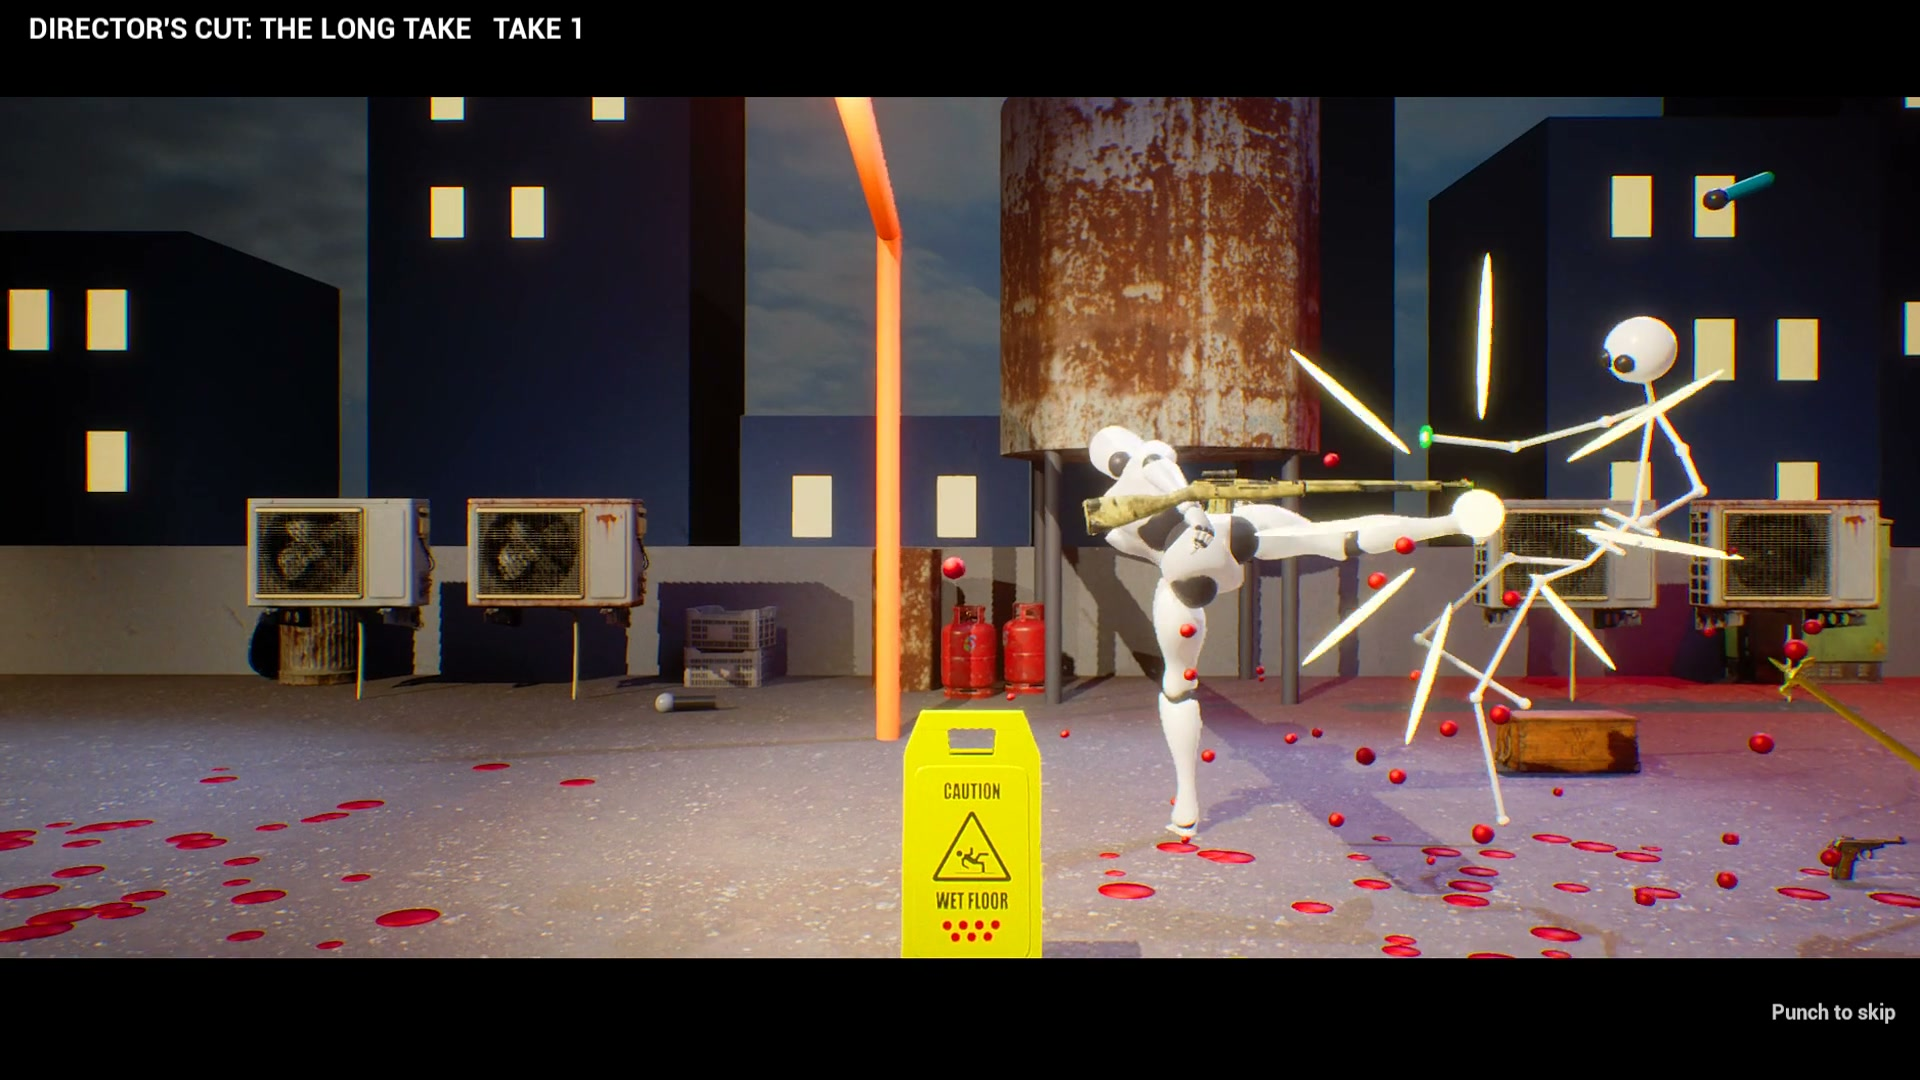
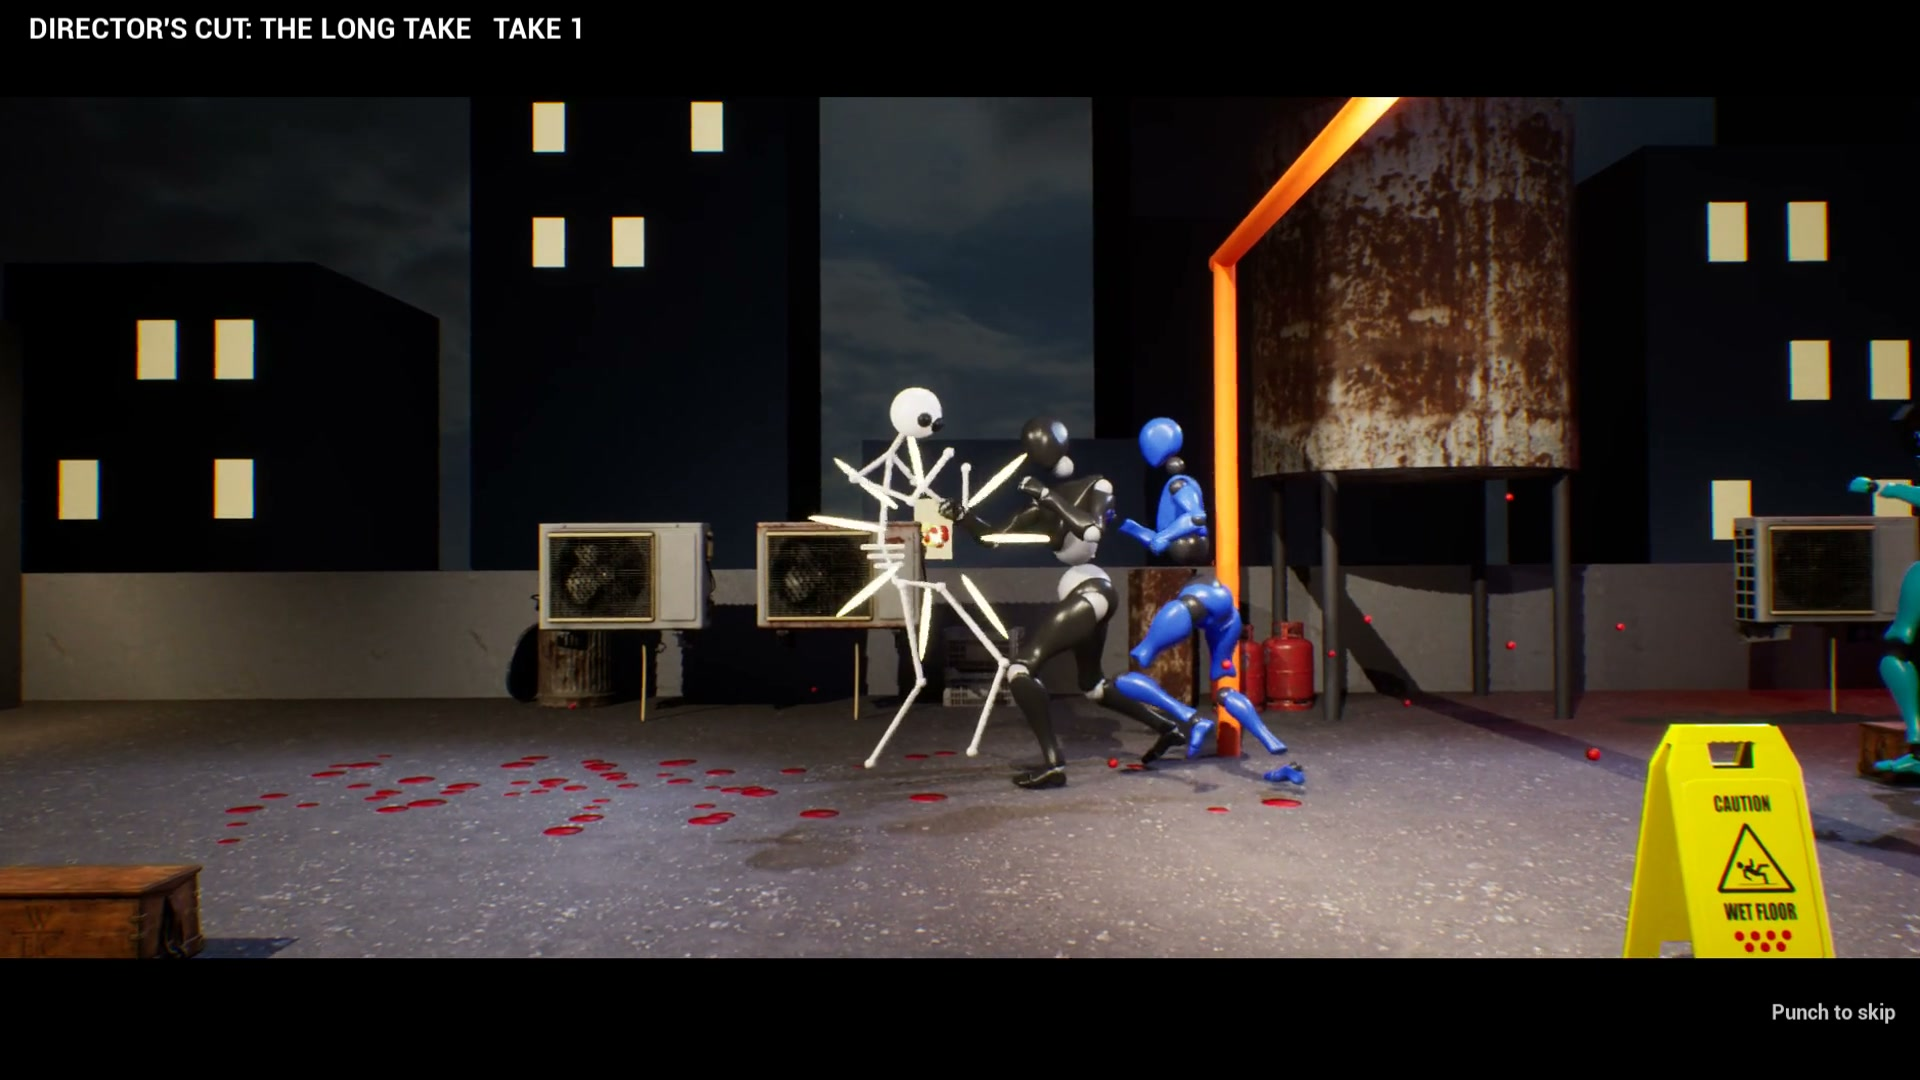
The project as it stood at 49e3301

diff --git a/DEVLOG.md b/DEVLOG.md
@@ -1250,6 +1250,21 @@ Entry for the 2026 Epic AI MegaJam (theme: Director's Cut). This log records, as
 
 ![The bar's film as the long take: one camera from the side, start to slate](Docs/devlog/81-the-long-take.jpg)
 
+### 18:30 · A new gameplay video from the evening's build, and the Start menu that got into it
+
+- **Developer said:** "Yes, PC is yours".
+- **Agent did:**
+  - `Tools/record_run.ps1 -Seconds 300` let the evening's packaged game play itself in a window and recorded its picture and its own sound. The run: all three scenes won in their first take, the films shown as the action cut, the slow-motion cut and the long take in turn, then the closing card. Over four takes 87 blows with hands and feet, 11 things thrown, 9 shots that hit, 26 blows taken.
+  - `node Tools/cut_video.mjs` then refused: "No film's black bars were found in the picture". It puts the picture in step with the log by measuring how long the top of the frame is black, and expected that to be as long as a film. Since the title card and the slate were added the bars go up with the card that offers the choice of cut and come down with a card after the film, so every stretch was ten to fourteen seconds too long. The script now looks for a stretch that starts at that card and ends on one of the cards after the film; it found film 3 to within 11 milliseconds.
+  - The first cut was looked at one frame every two seconds, and one frame was wrong: the Windows Start menu lay over the game, with the names of files on the developer's PC in it. In the recording it is up for about one second, as the first choice of cut appears; the other two choices are clean. Why it opened is not known. The piece that shows the choice now starts 1.3 seconds into the card instead of 0.5, which is past it in this run and as good in any other.
+  - Two more changes to the cut while it was open. The films of scenes 2 and 3 used to start with the last 0.7 seconds of their title card, a black flash too short to read; they now start after it. And the video now shows the slate of the last film, "CUT. PRINT IT.", before the closing card; it is left out when outtakes follow the slate.
+  - The second cut was looked at two frames a second, 116 frames: nothing lies over the picture. Eight pictures for the store page were taken from it into `Docs/store`, the eighth being the slate.
+- **Result:** `Saved/Release/StickToTheScript_gameplay.mp4`, 58 seconds, 1920 by 1080, with sound (mean -22 dB, peak -1.5 dB). The cut before it is kept beside it as `StickToTheScript_gameplay_before.mp4`.
+- **Went wrong:** the Start menu, told above; a frame every two seconds caught it, and only just, since it was up for one second. The raw recording still has it and stays on the developer's disk.
+- **Not verified:** nobody has listened to the video; its sound was measured, not heard. Nobody has watched it at speed. It is not uploaded: the link on the store page and for the jam's form is still the video of Nov 13, and the page still shows that day's pictures and the build of 13:31.
+
+![The new video, two frames a second: title, wardrobe, three fights, three films in three cuts, the slate](Docs/devlog/82-the-new-gameplay-video.jpg)
+
 ---
 
 ## Asset and tool register

diff --git a/Docs/StorePage.md b/Docs/StorePage.md
@@ -75,9 +75,9 @@ The page exists as a draft since Fri Nov 13: https://the-fighter-ps.itch.io/stic
 - [x] Cover, screenshots and the zip uploaded to the draft, on Fri Nov 13. The zip there is replaced whenever the game changes, last on Sat Nov 14 at 13:31. The page's upload buttons open a file chooser; `Toolschoose_file.ps1` fills it in
 
 - [x] Team name: Page Twelve. The zip is `PageTwelve_StickToTheScript.zip`, made by `Tools\release.ps1 -Team PageTwelve`
-- [ ] Screenshots taken from the packaged game. Seven are in `Docs/store`, captured from the game's own window at 1920 by 1080 during a self-played run on Fri Nov 13, after the sets got their surfaces. The strip along the top, where a tool on the developer's PC draws its frame counter, is cut off. The developer has not chosen among them
+- [ ] Screenshots taken from the packaged game. Eight are in `Docs/store`, taken at 1920 by 1080 from the gameplay video of the self-played run of Sat Nov 14, 18:15, the eighth being the slate that ends a film. The strip along the top, where a tool on the developer's PC draws its frame counter, is cut off. The draft page still shows the pictures of Fri Nov 13. The developer has not chosen among them
 - [x] A cover image, 630 by 500: `Docs/store/cover.png`
-- [x] The link to the 30 to 60 second gameplay video: https://www.youtube.com/watch?v=zvQRRTC56iA (56 seconds, a self-played run, uploaded by the developer on Fri Nov 13). It is on the draft page too. It shows that day's build and is made again if the game changes much
+- [x] The link to the 30 to 60 second gameplay video: https://www.youtube.com/watch?v=zvQRRTC56iA (56 seconds, a self-played run, uploaded by the developer on Fri Nov 13). It is on the draft page too. It shows that day's build. A new one, 58 seconds, was cut on Sat Nov 14 at 18:28 from that evening's build and lies in `Saved/Release/StickToTheScript_gameplay.mp4`; it is not uploaded, so the link above is still the old video
 - [x] A public link for the dev log: https://github.com/ahmadkhalaf1/stick-to-the-script-devlog. It is a copy of this repository without the binary assets and without the history, refreshed by `Tools\publish_devlog.ps1`
 - [x] The gamepad column: no gamepad has been tried, so the page on itch.io lists keyboard and mouse only
 - [ ] The developer has read this text and agrees with it

diff --git a/Plan/Tasks/S4-SHIP-02 Gameplay video.md b/Plan/Tasks/S4-SHIP-02 Gameplay video.md
@@ -17,6 +17,8 @@ depends:
 
 **Done when:**
 - [x] Recorded and cut, on Fri Nov 13: 56 seconds, 1920 by 1080 at 60 frames a second, in `Saved/Release/StickToTheScript_gameplay.mp4`. The game played itself; `Tools\record_run.ps1` recorded it and `Tools/cut_video.mjs` cut it. It is made again when the game changes
+- [x] Made again on Sat Nov 14 at 18:28 from that evening's build: 58 seconds, the three fights, the three cuts of the film and the slate. `Tools/cut_video.mjs` finds its place by the cards round a film now, since the bars stay up longer than the film
+- [ ] The new video uploaded by the developer and its link put in `Docs/StorePage.md` and on the draft page. Until then the link below is the video of Nov 13
 - [ ] Watched with its sound by the developer
 - [x] Uploaded to YouTube by the developer on Fri Nov 13: https://www.youtube.com/watch?v=zvQRRTC56iA
 - [x] Link saved for the submission form: in `Docs/StorePage.md`, and on the draft store page
